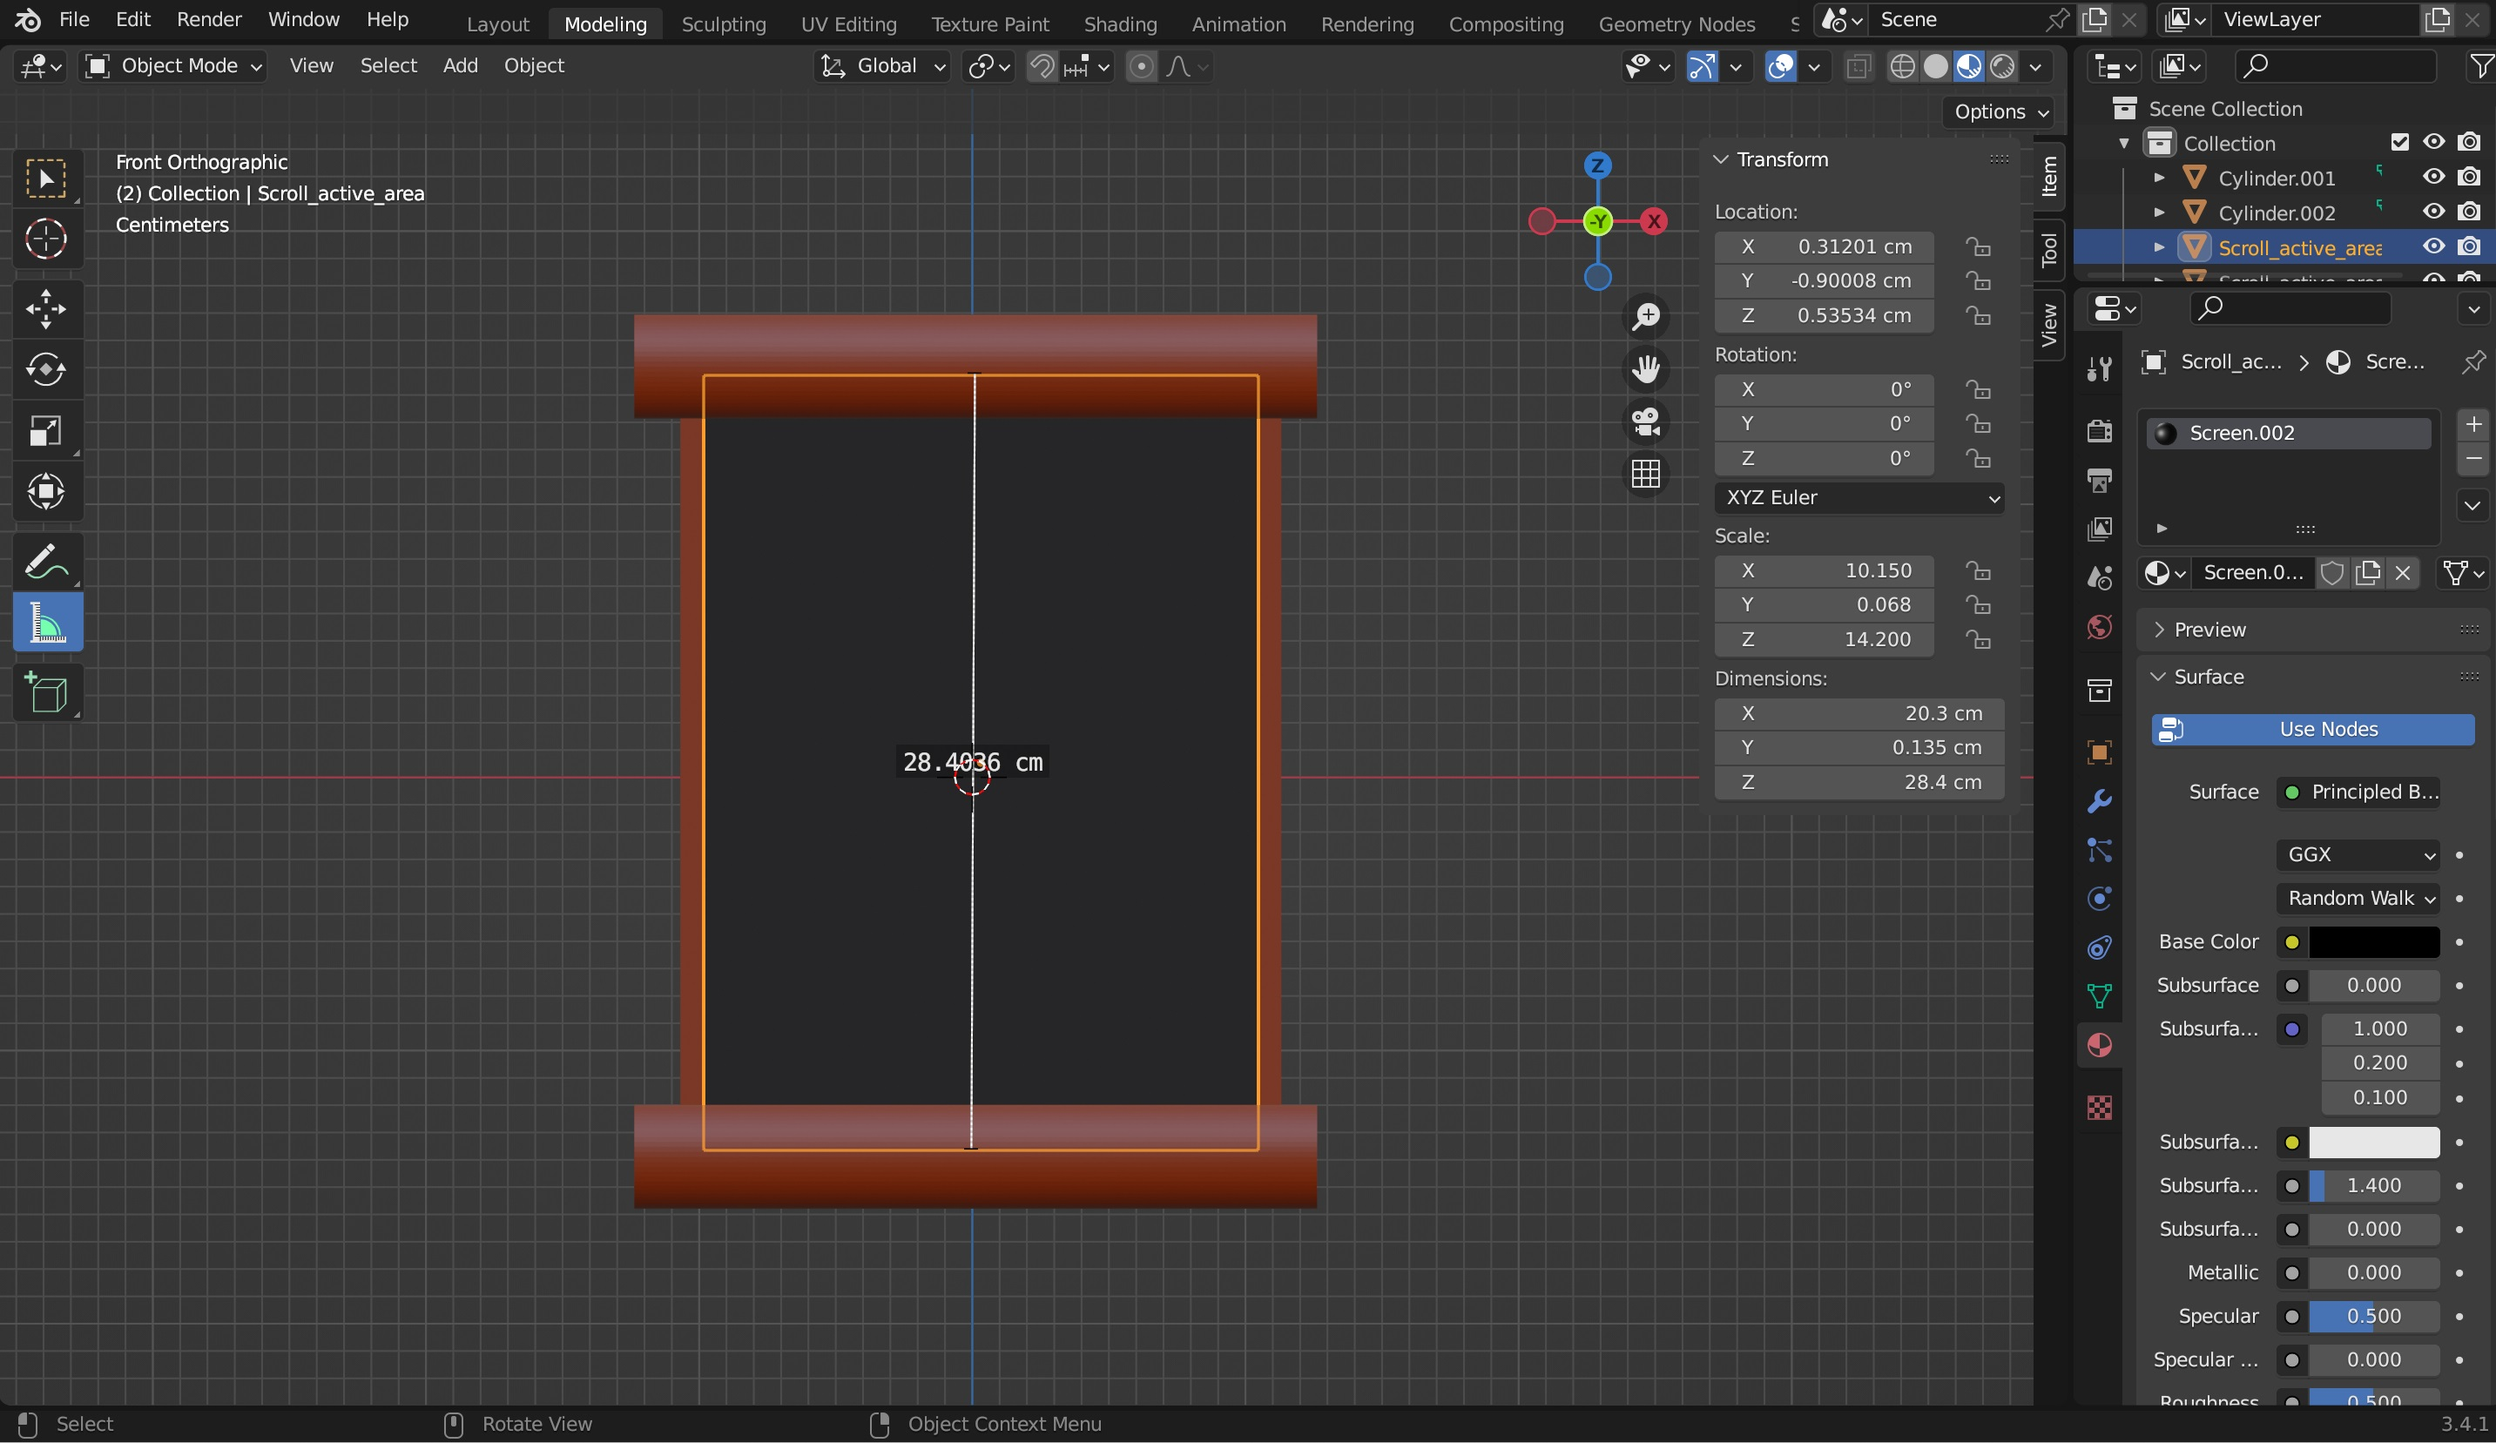
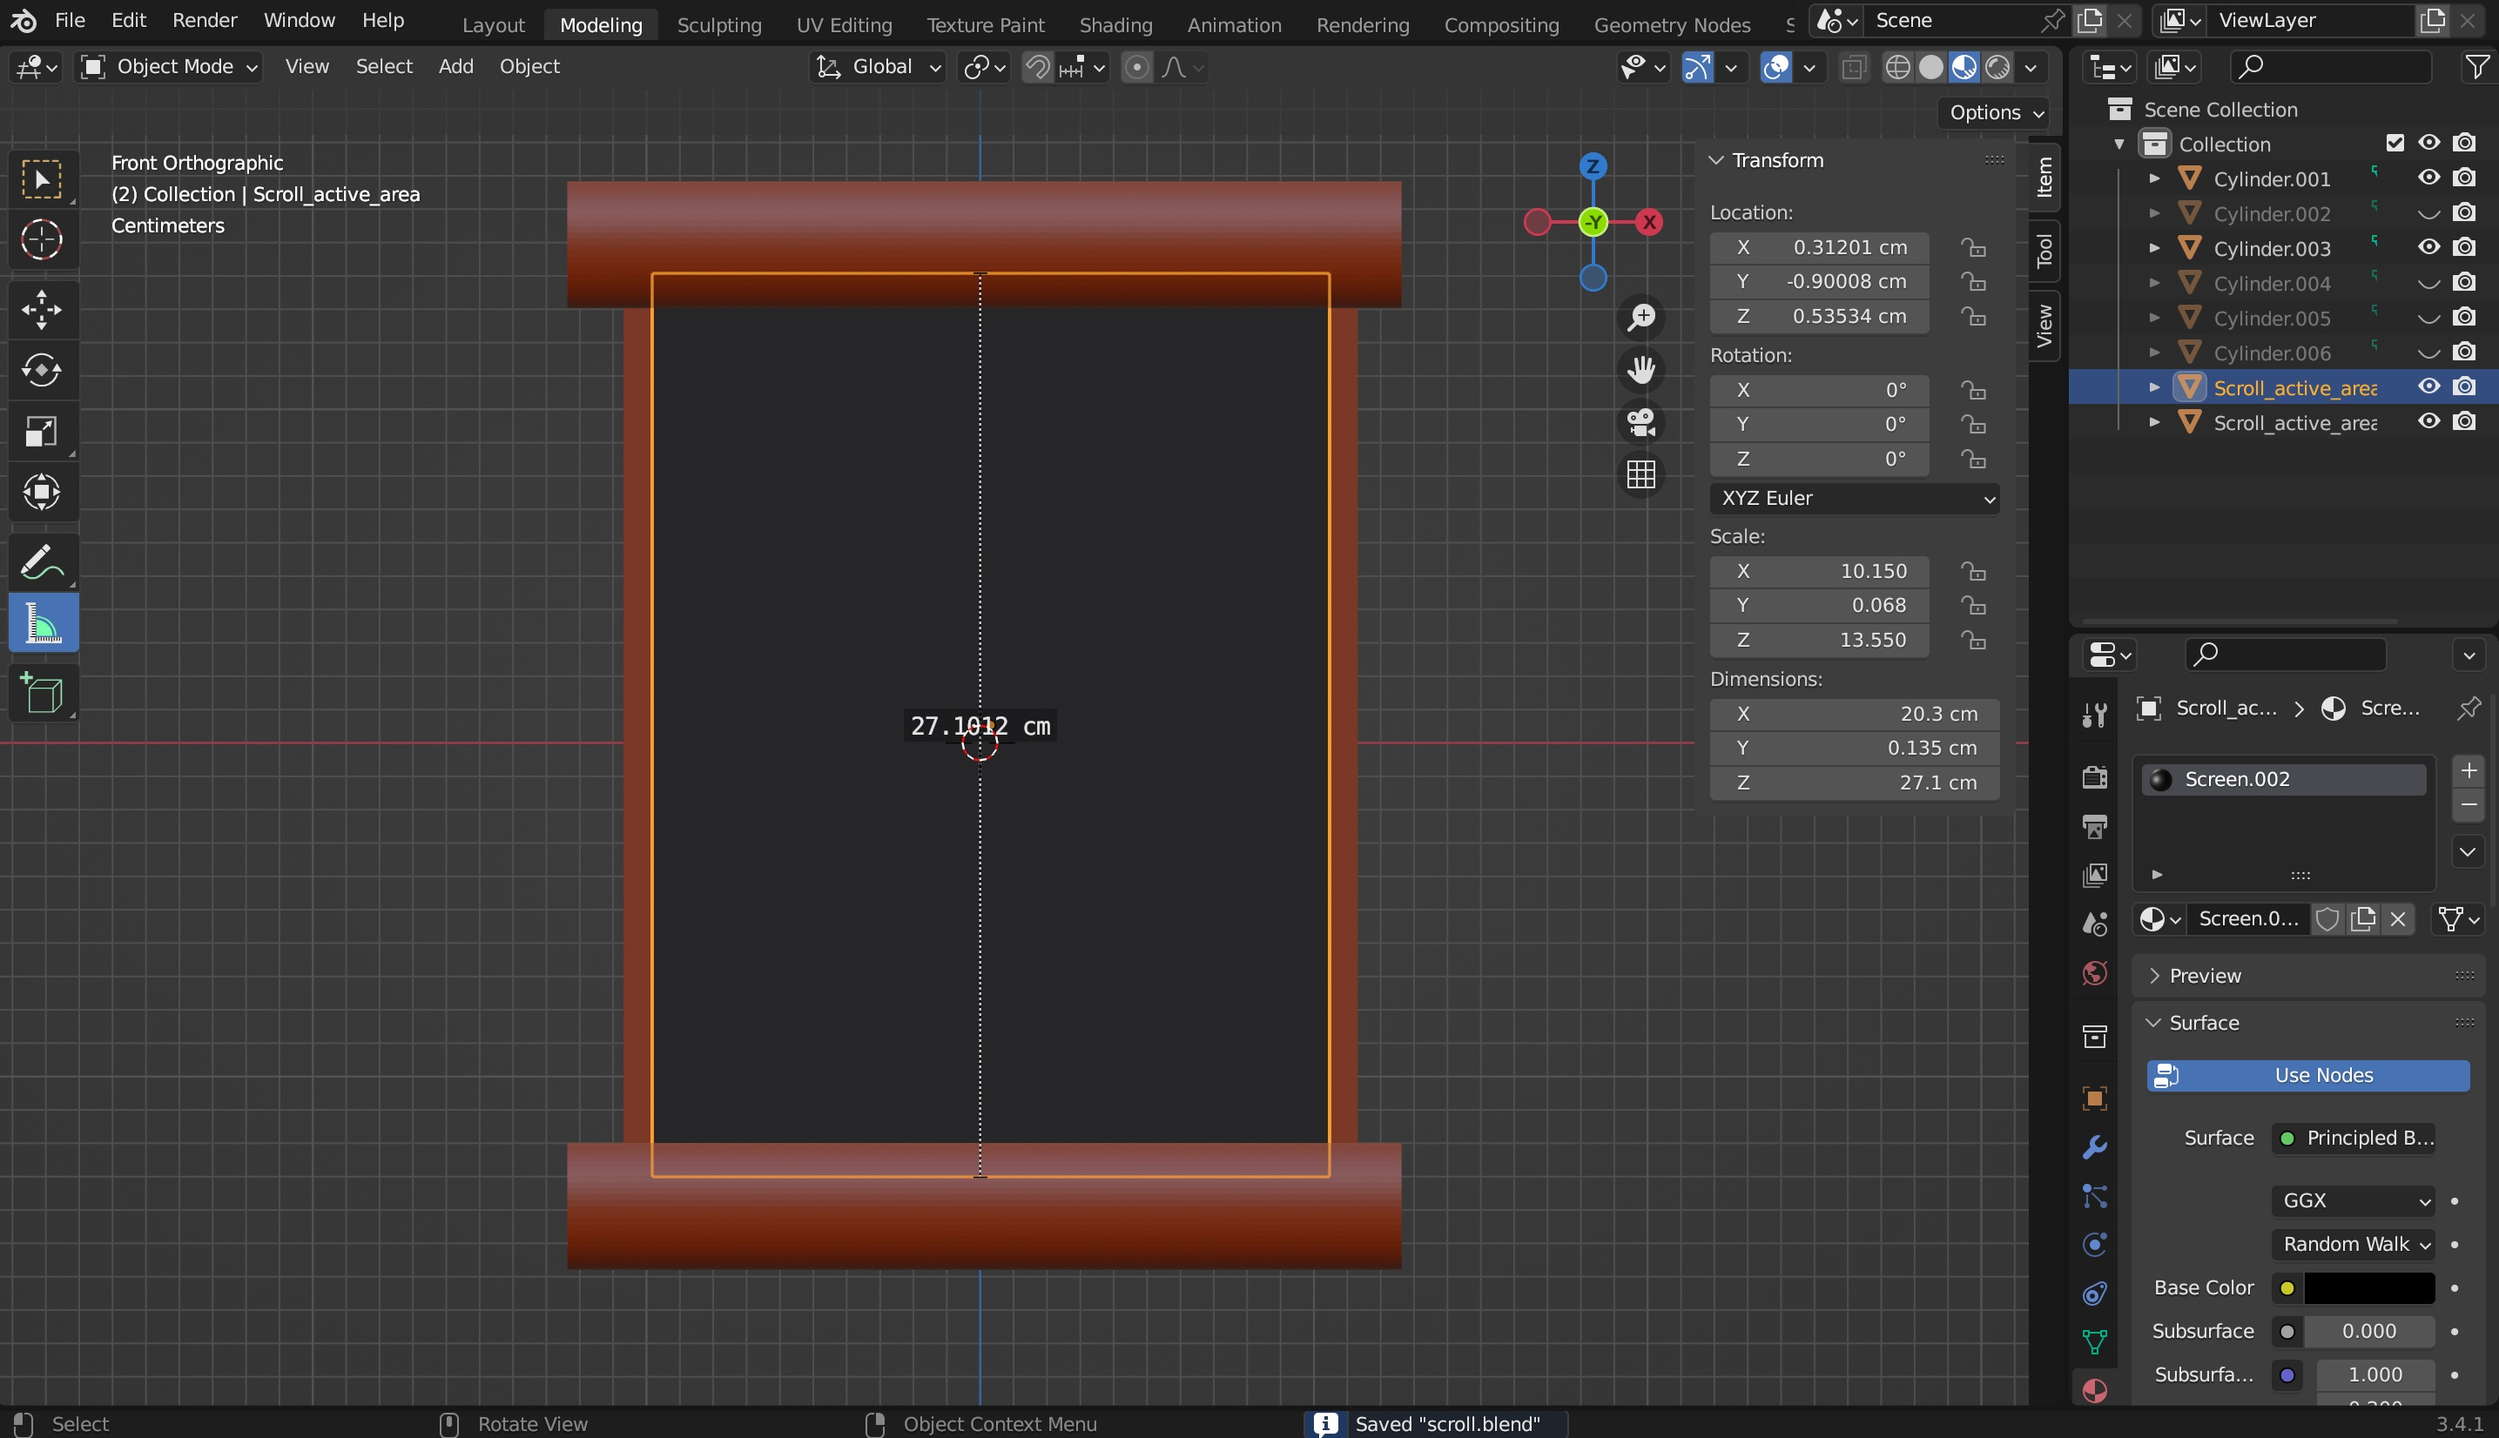
add

diff --git a/technical_task_scroll/tech_task_for_modeling_scroll.md b/technical_task_scroll/tech_task_for_modeling_scroll.md
@@ -43,15 +43,17 @@ https://www.artstation.com/artwork/04zYQe
 5 - Наконечники - размеры подбираются индивидуально, около 1.5 см ширина каждого.         
 6 - Дракон - размеры подбираются индивидуально и исходя из референсов (о нем смотри ниже).   
 
-#### Активная область   
+#### Активная область  
+Высоты активной зоны 27.1 см.   
+<img src="https://github.com/SeeNotEvil/design_task/blob/main/technical_task_scroll/size_active_area.jpg" width="400"/>  
+
+<img src="https://github.com/SeeNotEvil/design_task/blob/main/technical_task_scroll/plank_add_2.jpg" width="400"/>  
+
 Ширина 20.3 см.   
 <img src="https://github.com/SeeNotEvil/design_task/blob/main/technical_task_scroll/size_active_area_2.jpg" width="400">  
 
 Толщина 1.35 мм.   
 <img src="https://github.com/SeeNotEvil/design_task/blob/main/technical_task_scroll/plank_add.jpg" width="400"/>  
-
-Высоты активной зоны 27.1 см.   
-<img src="https://github.com/SeeNotEvil/design_task/blob/main/technical_task_scroll/plank_add_2.jpg" width="400"/>  
 
 #### Планки   
 Диаметр 3.8 см.   
